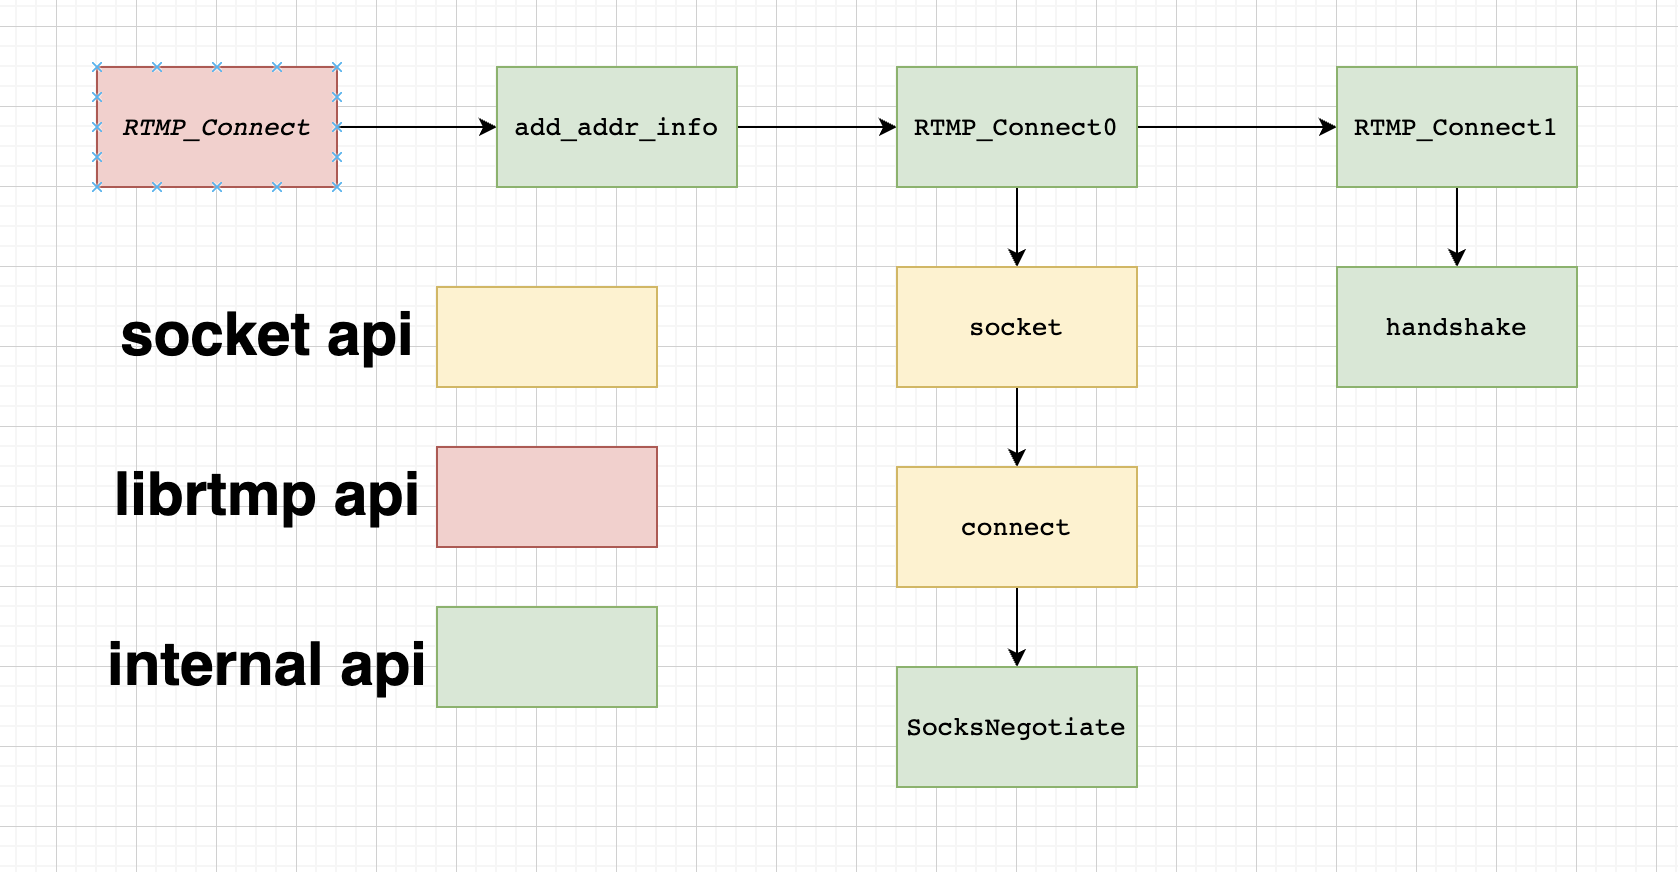
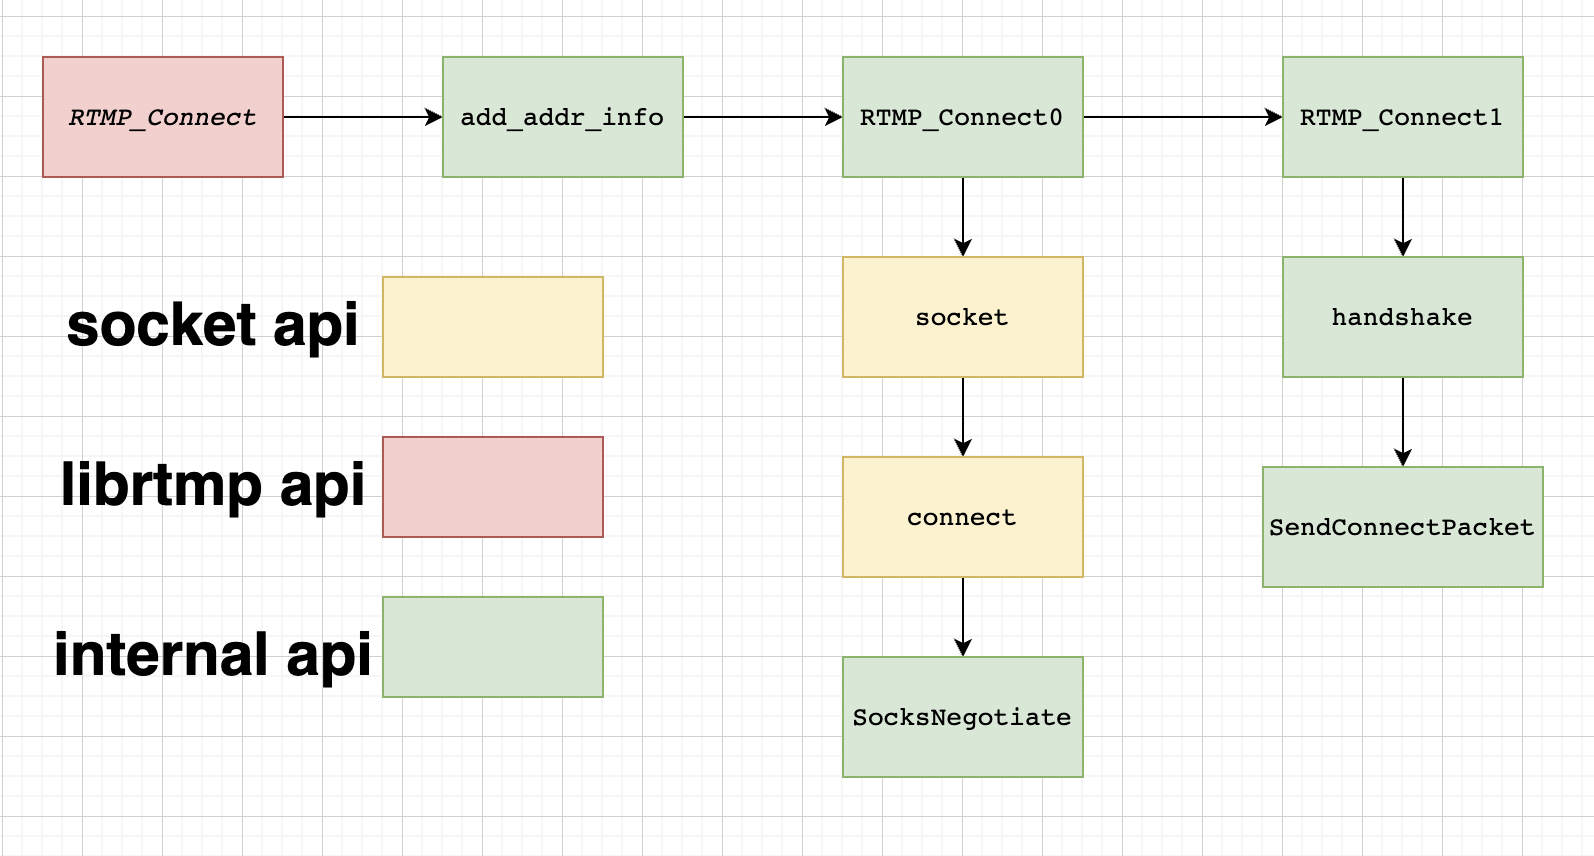
feat: RTMP_Connect update

diff --git a/src/rtmpdump/librtmp/rtmp.h b/src/rtmpdump/librtmp/rtmp.h
@@ -65,11 +65,11 @@ extern "C"
 
 #define	RTMP_CHANNELS	65600
 
-  extern const char RTMPProtocolStringsLower[][7];
-  extern const AVal RTMP_DefaultFlashVer;
-  extern int RTMP_ctrlC;
+extern const char RTMPProtocolStringsLower[][7];
+extern const AVal RTMP_DefaultFlashVer;
+extern int RTMP_ctrlC;
 
-  uint32_t RTMP_GetTime(void);
+uint32_t RTMP_GetTime(void);
 
 /*      RTMP_PACKET_TYPE_...                0x00 */
 #define RTMP_PACKET_TYPE_CHUNK_SIZE         0x01
@@ -102,47 +102,51 @@ extern "C"
 #define RTMP_PACKET_SIZE_SMALL    2
 #define RTMP_PACKET_SIZE_MINIMUM  3
 
-  typedef struct RTMPChunk
-  {
+typedef struct RTMPChunk
+{
     int c_headerSize;
     int c_chunkSize;
     char *c_chunk;
     char c_header[RTMP_MAX_HEADER_SIZE];
-  } RTMPChunk;
+} RTMPChunk;
 
-  typedef struct RTMPPacket
-  {
+typedef struct RTMPPacket
+{
+    /// fmt, chunk type. Defined by first two bits of basic header(BH)
     uint8_t m_headerType;
+    /// message type id. Defines whether the packet contains audio/video data, a remote object or a command.
     uint8_t m_packetType;
     uint8_t m_hasAbsTimestamp;	/* timestamp absolute or relative? */
+    /// chunk stream id
     int m_nChannel;
     uint32_t m_nTimeStamp;	/* timestamp */
+    /// message stream id
     int32_t m_nInfoField2;	/* last 4 bytes in a long header */
     uint32_t m_nBodySize;
     uint32_t m_nBytesRead;
     RTMPChunk *m_chunk;
     char *m_body;
-  } RTMPPacket;
+} RTMPPacket;
 
-  typedef struct RTMPSockBuf
-  {
+typedef struct RTMPSockBuf
+{
     int sb_socket;
     int sb_size;		/* number of unprocessed bytes in buffer */
     char *sb_start;		/* pointer into sb_pBuffer of next byte to process */
     char sb_buf[RTMP_BUFFER_CACHE_SIZE];	/* data read from socket */
     int sb_timedout;
     void *sb_ssl;
-  } RTMPSockBuf;
+} RTMPSockBuf;
 
-  void RTMPPacket_Reset(RTMPPacket *p);
-  void RTMPPacket_Dump(RTMPPacket *p);
-  int RTMPPacket_Alloc(RTMPPacket *p, uint32_t nSize);
-  void RTMPPacket_Free(RTMPPacket *p);
+void RTMPPacket_Reset(RTMPPacket *p);
+void RTMPPacket_Dump(RTMPPacket *p);
+int RTMPPacket_Alloc(RTMPPacket *p, uint32_t nSize);
+void RTMPPacket_Free(RTMPPacket *p);
 
 #define RTMPPacket_IsReady(a)	((a)->m_nBytesRead == (a)->m_nBodySize)
 
-  typedef struct RTMP_LNK
-  {
+typedef struct RTMP_LNK
+{
     AVal hostname;
     AVal sockshost;
 
@@ -194,11 +198,11 @@ extern "C"
     uint8_t SWFHash[RTMP_SWF_HASHLEN];
     char SWFVerificationResponse[RTMP_SWF_HASHLEN+10];
 #endif
-  } RTMP_LNK;
+} RTMP_LNK;
 
-  /* state for read() wrapper */
-  typedef struct RTMP_READ
-  {
+/* state for read() wrapper */
+typedef struct RTMP_READ
+{
     char *buf;
     char *bufpos;
     unsigned int buflen;
@@ -226,16 +230,16 @@ extern "C"
     uint32_t nInitialFrameSize;
     uint32_t nIgnoredFrameCounter;
     uint32_t nIgnoredFlvFrameCounter;
-  } RTMP_READ;
+} RTMP_READ;
 
-  typedef struct RTMP_METHOD
-  {
+typedef struct RTMP_METHOD
+{
     AVal name;
     int num;
-  } RTMP_METHOD;
+} RTMP_METHOD;
 
-  typedef struct RTMP
-  {
+typedef struct RTMP
+{
     int m_inChunkSize;
     int m_outChunkSize;
     int m_nBWCheckCounter;
@@ -280,97 +284,97 @@ extern "C"
     RTMPPacket m_write;
     RTMPSockBuf m_sb;
     RTMP_LNK Link;
-  } RTMP;
+} RTMP;
 
 
-  int RTMP_ParseURL(const char *url, int *protocol, AVal *host,
+int RTMP_ParseURL(const char *url, int *protocol, AVal *host,
                   unsigned int *port, AVal *playpath, AVal *app);
 
-  void RTMP_ParsePlaypath(AVal *in, AVal *out);
-  void RTMP_SetBufferMS(RTMP *r, int size);
-  void RTMP_UpdateBufferMS(RTMP *r);
+void RTMP_ParsePlaypath(AVal *in, AVal *out);
+void RTMP_SetBufferMS(RTMP *r, int size);
+void RTMP_UpdateBufferMS(RTMP *r);
 
-  int RTMP_SetOpt(RTMP *r, const AVal *opt, AVal *arg);
-  int RTMP_SetupURL(RTMP *r, char *url);
-  void RTMP_SetupStream(RTMP *r, int protocol,
-			AVal *hostname,
-			unsigned int port,
-			AVal *sockshost,
-			AVal *playpath,
-			AVal *tcUrl,
-			AVal *swfUrl,
-			AVal *pageUrl,
-			AVal *app,
-			AVal *auth,
-			AVal *swfSHA256Hash,
-			uint32_t swfSize,
-			AVal *flashVer,
-			AVal *subscribepath,
-			AVal *usherToken,
-			int dStart,
-			int dStop, int bLiveStream, long int timeout);
+int RTMP_SetOpt(RTMP *r, const AVal *opt, AVal *arg);
+int RTMP_SetupURL(RTMP *r, char *url);
+void RTMP_SetupStream(RTMP *r, int protocol,
+                      AVal *hostname,
+                      unsigned int port,
+                      AVal *sockshost,
+                      AVal *playpath,
+                      AVal *tcUrl,
+                      AVal *swfUrl,
+                      AVal *pageUrl,
+                      AVal *app,
+                      AVal *auth,
+                      AVal *swfSHA256Hash,
+                      uint32_t swfSize,
+                      AVal *flashVer,
+                      AVal *subscribepath,
+                      AVal *usherToken,
+                      int dStart,
+                      int dStop, int bLiveStream, long int timeout);
 
-  int RTMP_Connect(RTMP *r, RTMPPacket *cp);
-  struct sockaddr;
-  int RTMP_Connect0(RTMP *r, struct sockaddr *svc);
-  int RTMP_Connect1(RTMP *r, RTMPPacket *cp);
-  int RTMP_Serve(RTMP *r);
-  int RTMP_TLS_Accept(RTMP *r, void *ctx);
+int RTMP_Connect(RTMP *r, RTMPPacket *cp);
+struct sockaddr;
+int RTMP_Connect0(RTMP *r, struct sockaddr *svc);
+int RTMP_Connect1(RTMP *r, RTMPPacket *cp);
+int RTMP_Serve(RTMP *r);
+int RTMP_TLS_Accept(RTMP *r, void *ctx);
 
-  int RTMP_ReadPacket(RTMP *r, RTMPPacket *packet);
-  int RTMP_SendPacket(RTMP *r, RTMPPacket *packet, int queue);
-  int RTMP_SendChunk(RTMP *r, RTMPChunk *chunk);
-  int RTMP_IsConnected(RTMP *r);
-  int RTMP_Socket(RTMP *r);
-  int RTMP_IsTimedout(RTMP *r);
-  double RTMP_GetDuration(RTMP *r);
-  int RTMP_ToggleStream(RTMP *r);
+int RTMP_ReadPacket(RTMP *r, RTMPPacket *packet);
+int RTMP_SendPacket(RTMP *r, RTMPPacket *packet, int queue);
+int RTMP_SendChunk(RTMP *r, RTMPChunk *chunk);
+int RTMP_IsConnected(RTMP *r);
+int RTMP_Socket(RTMP *r);
+int RTMP_IsTimedout(RTMP *r);
+double RTMP_GetDuration(RTMP *r);
+int RTMP_ToggleStream(RTMP *r);
 
-  int RTMP_ConnectStream(RTMP *r, int seekTime);
-  int RTMP_ReconnectStream(RTMP *r, int seekTime);
-  void RTMP_DeleteStream(RTMP *r);
-  int RTMP_GetNextMediaPacket(RTMP *r, RTMPPacket *packet);
-  int RTMP_ClientPacket(RTMP *r, RTMPPacket *packet);
+int RTMP_ConnectStream(RTMP *r, int seekTime);
+int RTMP_ReconnectStream(RTMP *r, int seekTime);
+void RTMP_DeleteStream(RTMP *r);
+int RTMP_GetNextMediaPacket(RTMP *r, RTMPPacket *packet);
+int RTMP_ClientPacket(RTMP *r, RTMPPacket *packet);
 
-  void RTMP_Init(RTMP *r);
-  void RTMP_Close(RTMP *r);
-  RTMP *RTMP_Alloc(void);
-  void RTMP_Free(RTMP *r);
-  void RTMP_EnableWrite(RTMP *r);
+void RTMP_Init(RTMP *r);
+void RTMP_Close(RTMP *r);
+RTMP *RTMP_Alloc(void);
+void RTMP_Free(RTMP *r);
+void RTMP_EnableWrite(RTMP *r);
 
-  void *RTMP_TLS_AllocServerContext(const char* cert, const char* key);
-  void RTMP_TLS_FreeServerContext(void *ctx);
+void *RTMP_TLS_AllocServerContext(const char* cert, const char* key);
+void RTMP_TLS_FreeServerContext(void *ctx);
 
-  int RTMP_LibVersion(void);
-  void RTMP_UserInterrupt(void);	/* user typed Ctrl-C */
+int RTMP_LibVersion(void);
+void RTMP_UserInterrupt(void);	/* user typed Ctrl-C */
 
-  int RTMP_SendCtrl(RTMP *r, short nType, unsigned int nObject,
-		     unsigned int nTime);
+int RTMP_SendCtrl(RTMP *r, short nType, unsigned int nObject,
+                  unsigned int nTime);
 
-  /* caller probably doesn't know current timestamp, should
-   * just use RTMP_Pause instead
-   */
-  int RTMP_SendPause(RTMP *r, int DoPause, int dTime);
-  int RTMP_Pause(RTMP *r, int DoPause);
+/* caller probably doesn't know current timestamp, should
+ * just use RTMP_Pause instead
+ */
+int RTMP_SendPause(RTMP *r, int DoPause, int dTime);
+int RTMP_Pause(RTMP *r, int DoPause);
 
-  int RTMP_FindFirstMatchingProperty(AMFObject *obj, const AVal *name,
-				      AMFObjectProperty * p);
+int RTMP_FindFirstMatchingProperty(AMFObject *obj, const AVal *name,
+                                   AMFObjectProperty * p);
 
-  int RTMPSockBuf_Fill(RTMPSockBuf *sb);
-  int RTMPSockBuf_Send(RTMPSockBuf *sb, const char *buf, int len);
-  int RTMPSockBuf_Close(RTMPSockBuf *sb);
+int RTMPSockBuf_Fill(RTMPSockBuf *sb);
+int RTMPSockBuf_Send(RTMPSockBuf *sb, const char *buf, int len);
+int RTMPSockBuf_Close(RTMPSockBuf *sb);
 
-  int RTMP_SendCreateStream(RTMP *r);
-  int RTMP_SendSeek(RTMP *r, int dTime);
-  int RTMP_SendServerBW(RTMP *r);
-  int RTMP_SendClientBW(RTMP *r);
-  void RTMP_DropRequest(RTMP *r, int i, int freeit);
-  int RTMP_Read(RTMP *r, char *buf, int size);
-  int RTMP_Write(RTMP *r, const char *buf, int size);
+int RTMP_SendCreateStream(RTMP *r);
+int RTMP_SendSeek(RTMP *r, int dTime);
+int RTMP_SendServerBW(RTMP *r);
+int RTMP_SendClientBW(RTMP *r);
+void RTMP_DropRequest(RTMP *r, int i, int freeit);
+int RTMP_Read(RTMP *r, char *buf, int size);
+int RTMP_Write(RTMP *r, const char *buf, int size);
 
 /* hashswf.c */
-  int RTMP_HashSWF(const char *url, unsigned int *size, unsigned char *hash,
-		   int age);
+int RTMP_HashSWF(const char *url, unsigned int *size, unsigned char *hash,
+                 int age);
 
 #ifdef __cplusplus
 };

diff --git a/src/rtmpdump/librtmp/rtmp.c b/src/rtmpdump/librtmp/rtmp.c
@@ -1576,12 +1576,12 @@ SendConnectPacket(RTMP *r, RTMPPacket *cp)
     if (cp)
         return RTMP_SendPacket(r, cp, TRUE);
 
-    packet.m_nChannel = 0x03;	/* control channel (invoke) */
-    packet.m_headerType = RTMP_PACKET_SIZE_LARGE;
-    packet.m_packetType = RTMP_PACKET_TYPE_INVOKE;
+    packet.m_nChannel = 0x03;	/* control channel (invoke) */  /// stream id
+    packet.m_headerType = RTMP_PACKET_SIZE_LARGE;   /// fmt, Chunk type
+    packet.m_packetType = RTMP_PACKET_TYPE_INVOKE;  /// message type id
     packet.m_nTimeStamp = 0;
-    packet.m_nInfoField2 = 0;
-    packet.m_hasAbsTimestamp = 0;
+    packet.m_nInfoField2 = 0;    /// message stream id
+    packet.m_hasAbsTimestamp = 0;   ///timestamp Delta
     packet.m_body = pbuf + RTMP_MAX_HEADER_SIZE;
 
     enc = packet.m_body;
@@ -1612,7 +1612,7 @@ SendConnectPacket(RTMP *r, RTMPPacket *cp)
     }
     if (r->Link.tcUrl.av_len)
     {
-        enc = AMF_EncodeNamedString(enc, pend, &av_tcUrl, &r->Link.`tcUrl`);
+        enc = AMF_EncodeNamedString(enc, pend, &av_tcUrl, &r->Link.tcUrl);
         if (!enc)
             return FALSE;
     }
@@ -3883,8 +3883,7 @@ RTMP_SendChunk(RTMP *r, RTMPChunk *chunk)
     return wrote;
 }
 
-int
-RTMP_SendPacket(RTMP *r, RTMPPacket *packet, int queue)
+int RTMP_SendPacket(RTMP *r, RTMPPacket *packet, int queue)
 {
     const RTMPPacket *prevPacket;
     uint32_t last = 0;

diff --git a/explication/rtmp.md b/explication/rtmp.md
@@ -4,7 +4,7 @@ This file is mainly used for more fine-grained parsing of [rtmp file](../src/rtm
 ## RTMP_Init
 
 ## RTMP_SetupURL
-This function parse more more than rtmp url. \
+This function parse more than rtmp url. \
 An example character string suitable for use with RTMP_SetupURL():
 ```
 rtmp://flashserver:1935/ondemand/thefile swfUrl=http://flashserver/player.swf swfVfy=1
@@ -14,4 +14,16 @@ rtmp://flashserver:1935/ondemand/thefile swfUrl=http://flashserver/player.swf sw
 Flow Chart![](../files/RTMP_Connect.png)
 1. add_addr_info: assign value to sockaddr_in from RTMP.Link,init a socket address;
 2. RTMP_Connect0: init a socket, establish socket connection.Then do SocksNegotiate;
-3. RTMP_Connect1: handshake
+3. RTMP_Connect1: handshake, SendConnectPacket
+
+The following are two more important functions in connect;
+
+### handshake
+For more specific handshake details, refer to the [handshake.h](../src/rtmpdump/librtmp/handshake.h) file.
+
+RTMP Handshake Diagram:
+![](../files/handshake.png)
+
+### SendConnectPacket
+If you want to understand the structure of the **RTMPPacket**, you can refer to the [RTMP Wiki](https://en.wikipedia.org/wiki/Real-Time_Messaging_Protocol#Connect) **PACKET STRUCTURE paragraph**. 
+The Structure members 
